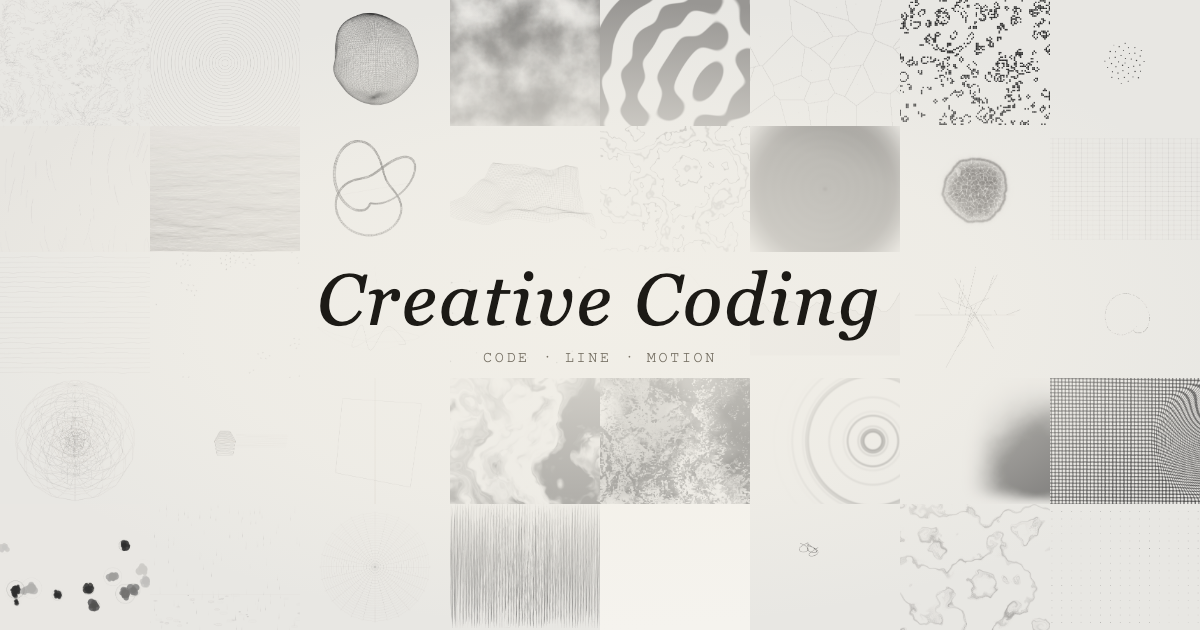
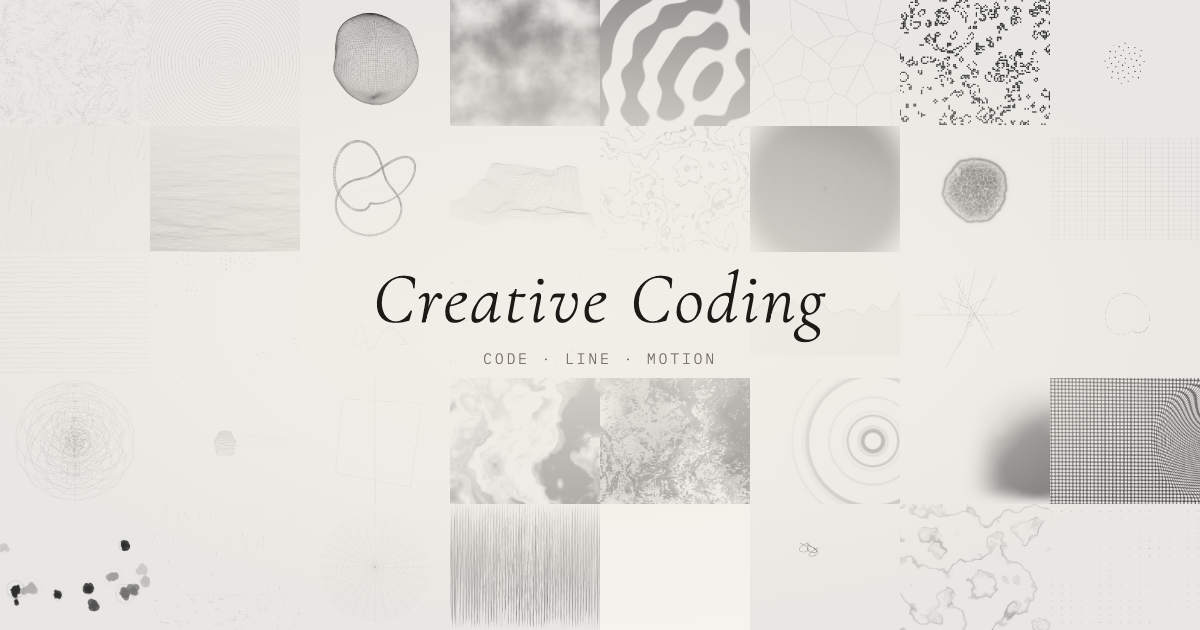
fix: use Cormorant Garamond + IBM Plex Mono for OGP image

Changed region(s): [[0.2467, 0.4222, 0.74, 0.5429], [0.4008, 0.5429, 0.4317, 0.573], [0.2775, 0.4222, 0.3083, 0.4524]]

diff --git a/scripts/generate-ogp.js b/scripts/generate-ogp.js
@@ -30,6 +30,7 @@ const html = `<!DOCTYPE html>
 <html>
 <head>
 <meta charset="UTF-8">
+<link href="https://fonts.googleapis.com/css2?family=Cormorant+Garamond:ital,wght@0,300;1,300;1,400&family=IBM+Plex+Mono:wght@300&display=swap" rel="stylesheet">
 <style>
   * { margin: 0; padding: 0; box-sizing: border-box; }
   body {
@@ -78,9 +79,9 @@ const html = `<!DOCTYPE html>
   }
 
   .title {
-    font-family: 'Georgia', 'Times New Roman', serif;
+    font-family: 'Cormorant Garamond', 'Georgia', serif;
     font-size: 72px;
-    font-weight: 400;
+    font-weight: 300;
     font-style: italic;
     color: #1c1a16;
     letter-spacing: 0.04em;
@@ -89,7 +90,7 @@ const html = `<!DOCTYPE html>
 
   .subtitle {
     margin-top: 14px;
-    font-family: 'Courier New', monospace;
+    font-family: 'IBM Plex Mono', 'Courier New', monospace;
     font-size: 15px;
     font-weight: 400;
     color: #7a7468;
@@ -117,7 +118,7 @@ const html = `<!DOCTYPE html>
   const page = await browser.newPage();
   await page.setViewportSize({ width: 1200, height: 630 });
   await page.setContent(html, { waitUntil: 'networkidle' });
-  await page.waitForTimeout(500);
+  await page.waitForTimeout(1500);
   await page.screenshot({ path: OUT, type: 'png' });
   await browser.close();
   console.log(`生成完了: ${OUT}`);
